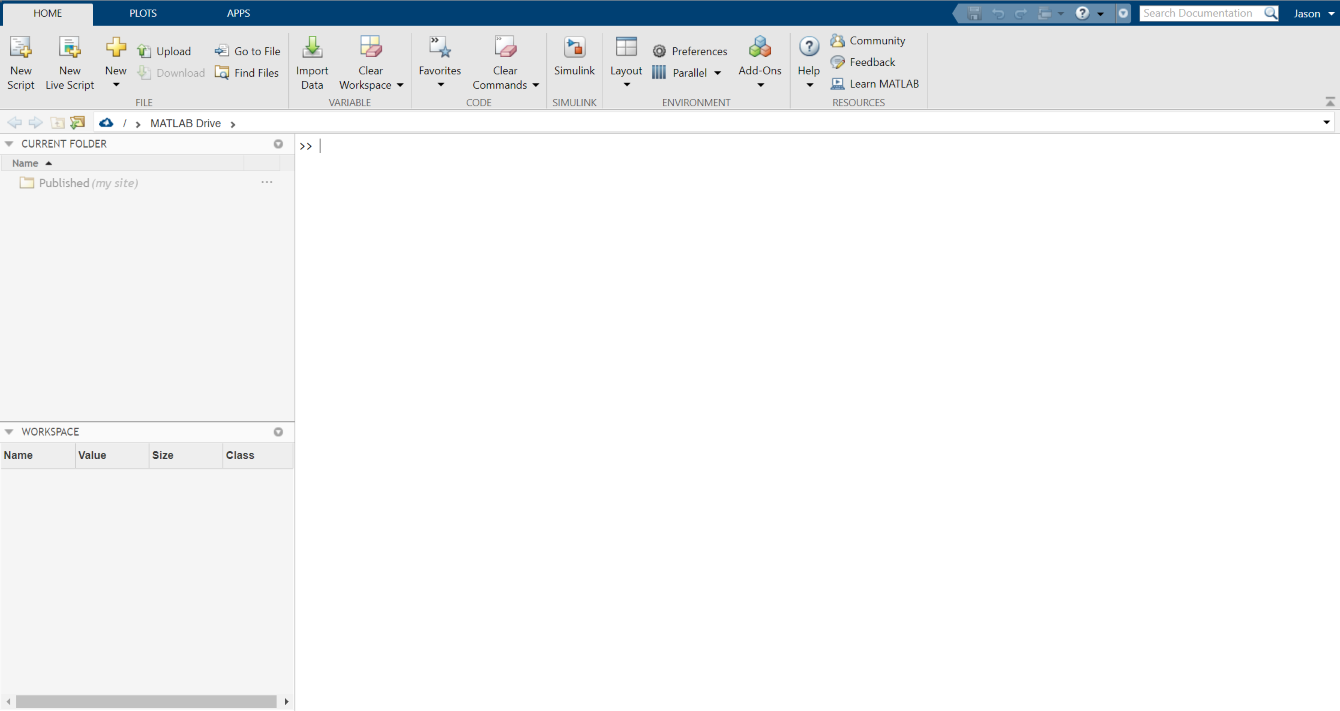
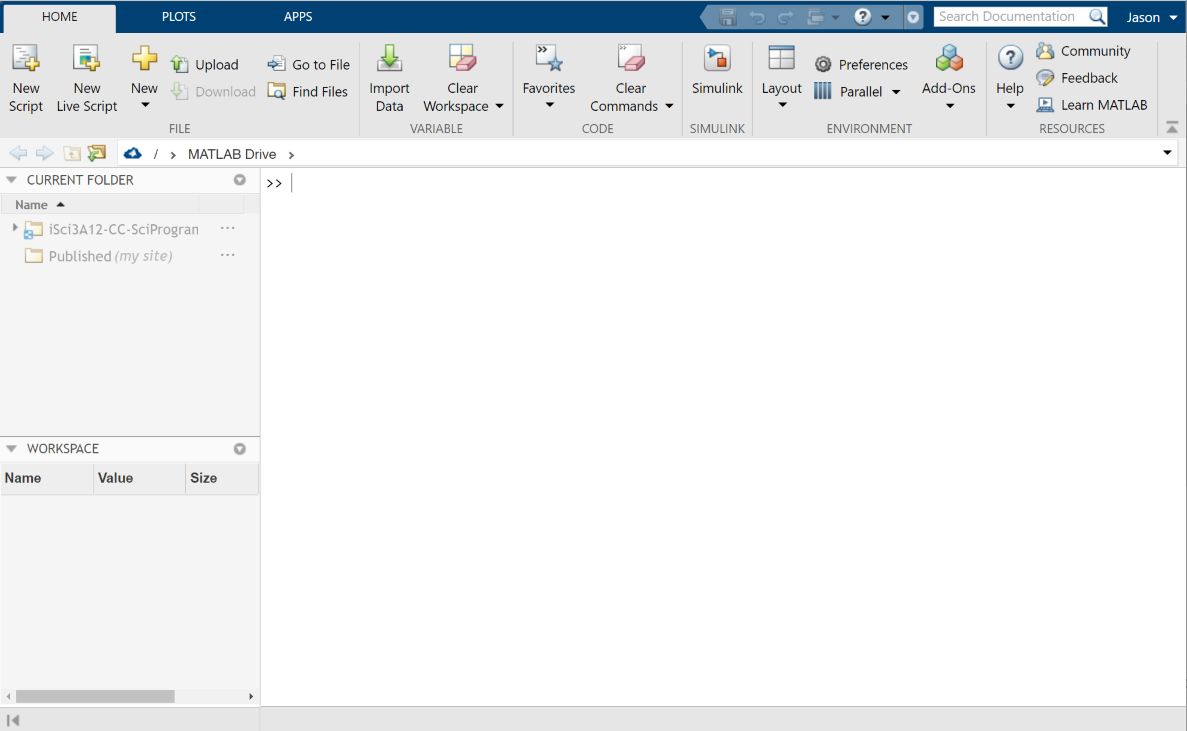
updates

diff --git a/preparation.md b/preparation.md
@@ -7,7 +7,9 @@ nav_order: 2
 # Preparation
 Follow along with Jay's introductory presentation on Scientific Programming, MATLAB, and your assignment. 
 
-## Activate MATLAB and open MATLAB Online
+## 1. Introductory Presentation
+
+## 2. Activate MATLAB and open MATLAB Online
 As a student at McMaster, you have access to MATLAB through McMaster's [web portal](https://www.mathworks.com/academia/tah-portal/mcmaster-university-31501097.html). From this portal, you can download the MATLAB installer to install it on your local desktop or laptop, or access and use MATLAB online--an completely online version of the software. For this assignment, we'll be using the online version. If you don't already have one, you'll be required to create a MathWorks account. 
 
 - Navigate to https://www.mathworks.com/products/matlab-online.html
@@ -30,7 +32,7 @@ As a student at McMaster, you have access to MATLAB through McMaster's [web port
 </tbody>
 </table>
 
-## Add the assignment data pack to MATLAB Drive & MATLAB Online
+## 3. Add the assignment data pack to MATLAB Drive & MATLAB Online
 Before you can begin the assignment, the assignment pack materials need to be uploaded to your [MATLAB Drive](https://drive.matlab.com/files/). This will make these files usable in MATLAB Online. Two options for doing this have been outlined below--**you only need to do one**. 
 
 ### Option 1: Using a MATLAB Drive share
@@ -46,3 +48,6 @@ Before you can begin the assignment, the assignment pack materials need to be up
 ![MATLAB Drive folder upload page](assets/img/matlab-drive-upload-folder.png)
 - Choose to upload your extracted ```iSci3A12-CC-SciProgramming``` folder to MATLAB Drive.
 - You should now see a folder called ```iSci3A12-CC-SciProgramming``` in your MATLAB Drive and in MATLAB Online. The folder should contain a number of files and subfolders.
+
+## 4. Continue to the first lesson
+Now that you have MATLAB Online set up, continue to the [first lesson](lesson1).

diff --git a/lesson1.md b/lesson1.md
@@ -1,8 +1,11 @@
 ---
 layout: default
-title: 01-Learn Matlab
+title: 01-Learn MATLAB
 nav_order: 3
 ---
+
+# Learn MATLAB
+
 
 ## The MATLAB interface
 ![MATLAB Online interface](assets/img/interface.png)
@@ -15,9 +18,9 @@ By default, the MATLAB Online interface consists of following panels:
 
 
 
-### B0. Matlab interface
+### B0. MATLAB interface
 1. Explore the interface layout. Know the name of each panel, and briefly describe what they do.
-- Change Matlab's working directory to your /Downloads folder
+- Change MATLAB's working directory to your /Downloads folder
 
 ### B1. Basic command window operation
 1. Create a numeric variable using the command window  
@@ -38,7 +41,7 @@ By default, the MATLAB Online interface consists of following panels:
 6. Perform basic statistical functions on your arrays
   - e.g. ```mean(d);```, ```std(d);```, ```median(d);```  
 
-### B2. Learning more about Matlab
+### B2. Learning more about MATLAB
 - There are two helpful commands for learning more about what a matlab function (like 'mean', for example) does: 
   - To view help documentation in the command window type **help** and the name of the function 
     - e.g. ```help mean;``` 
@@ -123,7 +126,7 @@ Functions are called by using their name and the output/input format specified a
 
 #### If statements
 - An 'if' statement evaluates if a condition is met (true) or not met (false), and allows the user to perform different functions based on the outcome.  
-  - If the statement is true (condition is met) Matlab will execute whatever commands are below it.  
+  - If the statement is true (condition is met) MATLAB will execute whatever commands are below it.  
   - If it is untrue, it will
  execute any commands that are below the 'else' statement.
   - Just like 'for' loops, 'if' statements have to be closed with an 'end'
